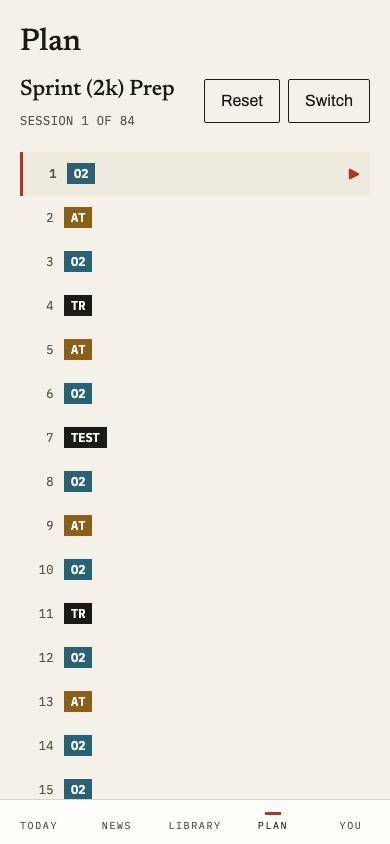
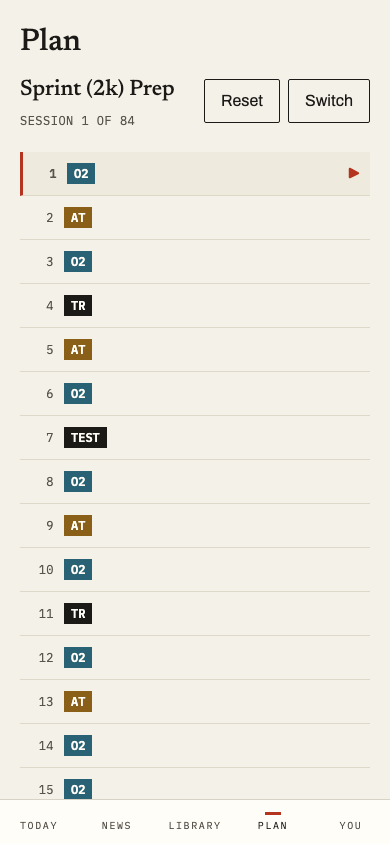
fix: the divider trap repeats, the tab clear loses its own race, links pick a winner
Final whole-branch review, three findings against Task 6's own work:

- IMPORTANT 1: `.plan-row:last-of-type` matched by tag among all
  siblings, not by class -- Task 6's per-row <li> wrapping made every
  row the only element of its tag in its own <li>, so every row's
  divider vanished. Selects on list structure instead
  (`.plan-sequence > li:last-child .plan-row`); adds a both-direction
  e2e witness; plan.png recaptured with the rules visible again.
- IMPORTANT 2: the tab bar's synchronous clear of the saved scroll
  position was defeated by HistoryList's own unmount-flush effect,
  which React defers until after paint and so re-saves the stale value
  moments later. logScroll.ts gains a clear-tombstone that the flush
  respects and HistoryList resets on its own next mount; the e2e
  witness is reshaped off a single racy-green read onto the actual
  consequence (a fresh list mount doesn't restore the stale offset).
- MINOR: listPlanLinks had no id tiebreak under its DISTINCT ON
  ordering; added one for determinism on a same-timestamp collision.

Claude-Session: https://claude.ai/code/session_01UEXqdgDid4Qjd8D5uoRZ3H

Changed region(s): [[0.8923, 0.1848, 0.9231, 0.2156]]

diff --git a/app/src/log/logScroll.ts b/app/src/log/logScroll.ts
@@ -6,12 +6,40 @@
  *  so callers (and tests) never hardcode it twice. */
 export const LOG_SCROLL_KEY = "ergomatic.logScroll";
 
+/** sessionStorage key for the "cleared" tombstone (final-review fix round,
+ *  2026-08-18, finding IMPORTANT 2). `TabBar.tsx`'s TODAY `NavLink` clears
+ *  `LOG_SCROLL_KEY` synchronously in its own `onClick` — but that SAME
+ *  click's navigation unmounts `HistoryList`, whose own save effect
+ *  flushes the last-known scroll position on cleanup. `HistoryList` is
+ *  the one screen among `CLEAR_ON_TAB`'s three where this can happen at
+ *  all: NEWS/LIBRARY clear a screen that, by construction, isn't
+ *  currently mounted when their OWN tab is tapped from elsewhere (you can
+ *  only be on News/Library, about to leave it, or already elsewhere —
+ *  never navigating TO the tab that owns the scroll you're mid-unmount
+ *  of), but tapping TODAY from `/today/log[/:id]` unmounts the one screen
+ *  that owns `LOG_SCROLL_KEY` as a direct effect of that very click.
+ *  React defers a passive effect's cleanup until after paint — strictly
+ *  AFTER the click handler's synchronous clear — so the flush silently
+ *  re-writes the value the tap just erased (live probe: scrolled 623,
+ *  TODAY tap, storage read "623" again moments later). Nulling the value
+ *  can't outlive a write that lands later than the null; a tombstone that
+ *  OUTLIVES the null and is checked by every write can: `clearLogScroll`
+ *  sets it, `saveLogScroll` declines to write while it's set, and
+ *  `resetLogScrollTombstone` (called once by `HistoryList` on its own
+ *  mount — a genuine new visit, never a race with the clear that already
+ *  happened) clears it again, so ordinary navigate-away-and-back
+ *  saving/restoring is untouched — only the TODAY-tap race is closed. */
+const LOG_SCROLL_CLEARED_KEY = "ergomatic.logScroll.cleared";
+
 /** Persists the current scroll position. sessionStorage can throw (quota,
  *  private-mode Safari, disabled storage) — mirrors `newsScroll.ts`'s own
  *  `saveNewsScroll`, never lets that escape uncaught: a lost scroll
- *  position is not worth surfacing to the rower. */
+ *  position is not worth surfacing to the rower. Declines to write while
+ *  `clearLogScroll`'s tombstone is set — see that key's own comment for
+ *  why a plain "remove and be done" clear isn't enough. */
 export function saveLogScroll(y: number): void {
   try {
+    if (sessionStorage.getItem(LOG_SCROLL_CLEARED_KEY) !== null) return;
     sessionStorage.setItem(LOG_SCROLL_KEY, String(y));
   } catch {
     // best-effort
@@ -39,10 +67,32 @@ export function loadLogScroll(): number | null {
  *  visit (it never carries the history list's own reading state), so
  *  clearing at its own click handler is the point of distinction the
  *  design calls for (spec §4 N7: "a fresh visit through the heading link
- *  after a tab-tap never restores a stale offset"). */
+ *  after a tab-tap never restores a stale offset"). Also sets the
+ *  tombstone `LOG_SCROLL_CLEARED_KEY` documents — removing the value
+ *  alone can't survive `HistoryList`'s own unmount-flush cleanup landing
+ *  LATER than this call (a real race, not hypothetical — see that key's
+ *  comment); the tombstone outlives the null and blocks that write too. */
 export function clearLogScroll(): void {
   try {
     sessionStorage.removeItem(LOG_SCROLL_KEY);
+    sessionStorage.setItem(LOG_SCROLL_CLEARED_KEY, "1");
+  } catch {
+    // best-effort, same rationale as saveLogScroll
+  }
+}
+
+/** Resets the tombstone `clearLogScroll` sets, so this and every later
+ *  `saveLogScroll` call goes through normally again. Called once by
+ *  `HistoryList` on its own mount — a genuinely fresh visit, which by the
+ *  time it happens is never racing the clear that already completed
+ *  (that clear's own click, and any deferred flush it triggered, both
+ *  belong to a screen instance that finished unmounting before this new
+ *  one exists). Without this reset, a tab tap that clears the scroll
+ *  would permanently disable saving for the rest of the tab's lifetime,
+ *  not just for the one navigation N7 is actually about. */
+export function resetLogScrollTombstone(): void {
+  try {
+    sessionStorage.removeItem(LOG_SCROLL_CLEARED_KEY);
   } catch {
     // best-effort, same rationale as saveLogScroll
   }

diff --git a/app/src/log/logScroll.test.ts b/app/src/log/logScroll.test.ts
@@ -3,6 +3,7 @@ import {
   LOG_SCROLL_KEY,
   clearLogScroll,
   loadLogScroll,
+  resetLogScrollTombstone,
   saveLogScroll,
 } from "./logScroll";
 
@@ -74,6 +75,55 @@ describe("clearLogScroll", () => {
         throw new DOMException("storage disabled");
       });
     expect(() => clearLogScroll()).not.toThrow();
+    spy.mockRestore();
+  });
+});
+
+// Final whole-branch review (2026-08-18), finding IMPORTANT 2: the
+// tombstone that closes the race between the tab bar's synchronous
+// `clearLogScroll()` and `HistoryList`'s own deferred unmount-flush save
+// (`logScroll.ts`'s own `LOG_SCROLL_CLEARED_KEY` comment has the full
+// mechanism). This reproduces the race directly at the module level —
+// `saveLogScroll` called AFTER `clearLogScroll`, exactly the order React's
+// passive-effect scheduling produces — rather than through a live
+// component mount, since the ordering is the whole bug and this is the
+// smallest thing that can assert it deterministically.
+describe("clearLogScroll's tombstone (final-review fix round, 2026-08-18)", () => {
+  it("a save landing strictly after clearLogScroll — the unmount-flush race — is declined, not written", () => {
+    saveLogScroll(500);
+    clearLogScroll();
+    // Simulates HistoryList's own unmount-flush cleanup firing after the
+    // tab bar's synchronous clear (React defers a passive effect's
+    // cleanup until after paint) — the exact live-probe sequence the
+    // review reproduced: scrolled 623, TODAY tap, storage read "623" again.
+    saveLogScroll(623);
+    expect(loadLogScroll()).toBeNull();
+  });
+
+  it("resetLogScrollTombstone lets a later, genuine HistoryList mount save normally again", () => {
+    saveLogScroll(500);
+    clearLogScroll();
+    saveLogScroll(623); // the same defeated race as above
+    expect(loadLogScroll()).toBeNull();
+
+    resetLogScrollTombstone();
+    saveLogScroll(77);
+    expect(loadLogScroll()).toBe(77);
+  });
+
+  it("is a no-op when nothing was cleared, so an ordinary save is never blocked", () => {
+    resetLogScrollTombstone();
+    saveLogScroll(9);
+    expect(loadLogScroll()).toBe(9);
+  });
+
+  it("swallows a storage removal failure instead of throwing", () => {
+    const spy = vi
+      .spyOn(Storage.prototype, "removeItem")
+      .mockImplementation(() => {
+        throw new DOMException("storage disabled");
+      });
+    expect(() => resetLogScrollTombstone()).not.toThrow();
     spy.mockRestore();
   });
 });

diff --git a/app/server/stores/logs.ts b/app/server/stores/logs.ts
@@ -265,6 +265,25 @@ export function createLogsStore(db: Db) {
     // named plan) can never match `eq(planKey, planKey)` — SQL `= NULL`
     // is never true — so only genuinely-linked rows are eligible,
     // structurally, with no extra `isNotNull` guard needed.
+    //
+    // Final whole-branch review (2026-08-18), MINOR finding: `loggedAt`
+    // alone has no tiebreak, so two advancing saves for the same index
+    // landing in the same microsecond (both real transactions calling
+    // `now()` — unlikely, not impossible) would pick a winner
+    // nondeterministically; `sessionLogs.id`'s own gen_random_uuid()
+    // default has no ordering relationship with insert order, so this
+    // adds `desc(id)` purely as a deterministic, arbitrary-but-stable
+    // final tiebreak (not a "pick the later insert" one — Postgres
+    // offers no cheap monotonic column here) so the query itself can
+    // never return a different answer for the same data twice. Mirrors
+    // `server/testing/fakes.ts`'s own `seq` tiebreak in spirit, though
+    // that one IS insertion-ordered (the fake's plain `Date` can tie in
+    // ways real Postgres timestamps practically don't); a genuine
+    // same-timestamp collision isn't cheaply reproducible against the
+    // real store through the public `LogsStore` interface (`loggedAt` is
+    // a DB-side default, not settable by `create()`'s input), so this
+    // stays an ORDER BY change plus this comment rather than a new
+    // test-only seam.
     async listPlanLinks(
       userId: string,
       planKey: string,
@@ -278,7 +297,11 @@ export function createLogsStore(db: Db) {
         .where(
           and(eq(sessionLogs.userId, userId), eq(sessionLogs.planKey, planKey)),
         )
-        .orderBy(sessionLogs.planIndex, desc(sessionLogs.loggedAt));
+        .orderBy(
+          sessionLogs.planIndex,
+          desc(sessionLogs.loggedAt),
+          desc(sessionLogs.id),
+        );
       // planIndex is only ever null on a row whose planKey is also null
       // (create()'s "both linkage fields stay null together" invariant),
       // and the WHERE clause above already excludes those — the cast just

diff --git a/app/e2e/log.spec.ts b/app/e2e/log.spec.ts
@@ -339,15 +339,35 @@ test.describe("§4 N1-N7: the navigation-flow burn list's own witnesses", () => 
     // that it won't be reached by RESTORING the stale saved value (News's
     // own identical restore effect has no `else` branch either — "do
     // nothing" is the whole contract once nothing's saved).
+    //
+    // Final whole-branch review (2026-08-18), finding IMPORTANT 2: a
+    // single immediate read right after the click is racy-green.
+    // `HistoryList`'s own unmount-flush cleanup is a passive effect,
+    // which React defers until after paint — it can land LATER than this
+    // synchronous read, so a read taken BEFORE that flush has had a
+    // chance to fire would pass whether or not the flush went on to
+    // silently re-save the cleared value a moment later. `expect.poll`
+    // keeps re-reading past that window instead of sampling once inside
+    // it. Even that only proves the value SETTLES null; the check that
+    // actually forces the race to matter is the one below it — a
+    // genuinely fresh `HistoryList` mount (via the heading link, exactly
+    // like the rower would use it) must not restore the stale offset,
+    // which is the one thing a defeated clear can never fake regardless
+    // of when its own re-save happened to land.
     await page.getByRole("link", { name: "TODAY" }).click();
     await expect(page).toHaveURL(/\/today$/);
-    expect(
-      await page.evaluate(() => sessionStorage.getItem("ergomatic.logScroll")),
-    ).toBeNull();
+    await expect
+      .poll(() =>
+        page.evaluate(() => sessionStorage.getItem("ergomatic.logScroll")),
+      )
+      .toBeNull();
 
     await page.getByRole("link", { name: "ALL SESSIONS" }).click();
     await expect(page).toHaveURL(/\/today\/log$/);
     await expect(page.locator(".today-log-row").first()).toBeVisible();
+    await expect
+      .poll(() => page.evaluate(() => window.scrollY))
+      .toBeLessThan(scrolledY - 50);
   });
 
   // Spec §4 N1's own witness (Task 5 in-task requirement, the

diff --git a/app/e2e/design.spec.ts b/app/e2e/design.spec.ts
@@ -2118,6 +2118,37 @@ test.describe("plan screen (a plan active)", () => {
     expect(styles.borderLeft).toBe("rgb(181, 52, 31)"); // --accent
   });
 
+  // Final whole-branch review (2026-08-18), finding IMPORTANT 1's own
+  // structural witness: `.plan-row:last-of-type` matched by TAG among ALL
+  // siblings of that tag, not by class — Task 6 wrapped every row in its
+  // own `<li><a|div class="plan-row">`, so each `.plan-row` became the
+  // ONLY element of its own tag inside its own `<li>`, and the old
+  // selector matched EVERY row rather than just the true last one (every
+  // divider vanished; `docs/screenshots/plan.png` shows rules before Task
+  // 6, none after). No prior sweep asserted the divider's PRESENCE, only
+  // its absence on the true last row (`.baseline-row`'s own PR #66 tests
+  // cover just that half) — asserting BOTH directions here is what keeps
+  // the fixed selector (`.plan-sequence > li:last-child .plan-row`) from
+  // silently inverting again: a selector that removes every divider, or
+  // one that never removes any, would each fail exactly one of these two
+  // checks.
+  test("a non-last plan row keeps its divider and the true last row still drops it", async ({
+    page,
+  }) => {
+    const rows = page.locator(".plan-sequence > li .plan-row");
+    await expect(rows).toHaveCount(84);
+
+    const firstBorder = await rows
+      .nth(0)
+      .evaluate((el) => getComputedStyle(el).borderBottomWidth);
+    expect(firstBorder).not.toBe("0px");
+
+    const lastBorder = await rows
+      .nth(83)
+      .evaluate((el) => getComputedStyle(el).borderBottomWidth);
+    expect(lastBorder).toBe("0px");
+  });
+
   // Reset/Switch: the staged-confirm idiom copied from BaselineEditor.tsx —
   // structurally proving the confirm panel itself (not just the header
   // buttons) clears the tap-target/axe bars, since it renders a different

diff --git a/app/src/log/HistoryList.tsx b/app/src/log/HistoryList.tsx
@@ -3,7 +3,11 @@ import { Link } from "react-router-dom";
 import BackLink from "../shell/BackLink";
 import { LogRow } from "./LogRow";
 import { useLogHistory } from "./useLogHistory";
-import { loadLogScroll, saveLogScroll } from "./logScroll";
+import {
+  loadLogScroll,
+  resetLogScrollTombstone,
+  saveLogScroll,
+} from "./logScroll";
 
 // News.tsx's own throttle value/idiom, copied verbatim (see that file's
 // own comment on `SCROLL_SAVE_THROTTLE_MS` for the reasoning) — this
@@ -25,6 +29,17 @@ export default function HistoryList() {
   // from a scroll event that fires after this screen's own DOM has
   // already been replaced (the disconnected-root echo, PR #84).
   const rootRef = useRef<HTMLElement>(null);
+
+  // Final whole-branch review (2026-08-18), finding IMPORTANT 2: resets
+  // `clearLogScroll`'s own tombstone (`logScroll.ts`'s own comment) once
+  // per genuine mount of THIS screen. Runs unconditionally (not gated on
+  // `state.state`, unlike the two effects below) because it has nothing
+  // to do with the fetch — it only needs to happen once, early, on a
+  // fresh visit, well before any real scrolling could trigger the save
+  // effect below.
+  useEffect(() => {
+    resetLogScrollTombstone();
+  }, []);
 
   // Save scroll position — News.tsx:200-220's isConnected-guarded
   // throttled pair, PLUS one addition News's own screen never needed:

diff --git a/app/src/index.css b/app/src/index.css
@@ -2513,7 +2513,23 @@ button:disabled {
   color: inherit;
 }
 
-.plan-row:last-of-type {
+/* Final whole-branch review (2026-08-18), finding IMPORTANT 1 — the SAME
+   trap `.baseline-row`'s own comment above documents (PR #66), tripped
+   again: `:last-of-type` matches by TAG among ALL sibling elements of that
+   tag, not by class. Before Task 6, every `.plan-row` sat directly in
+   `.plan-sequence` as a sibling `<div>`, so "last div among the divs" and
+   "last `.plan-row`" were the same element — by accident, the exact
+   accident the older comment warns about. Task 6 wrapped each row in its
+   own `<li><a|div class="plan-row">…</a|div></li>` (Plan.tsx) so a
+   linked, done row could be an `<a>` instead of a `<div>` — which means
+   EVERY `.plan-row` is now the ONLY element of its own tag inside its own
+   `<li>`, so `:last-of-type` matched ALL of them, not just the true last
+   row, and every row's divider vanished (confirmed: `plan.png` had rules
+   before Task 6, none after). Selecting on STRUCTURE (the last `<li>` in
+   the list) instead of TAG IDENTITY is the fix that can't repeat this
+   trap a third time — it doesn't care whether the row inside is an `<a>`
+   or a `<div>`. */
+.plan-sequence > li:last-child .plan-row {
   border-bottom: none;
 }
 
